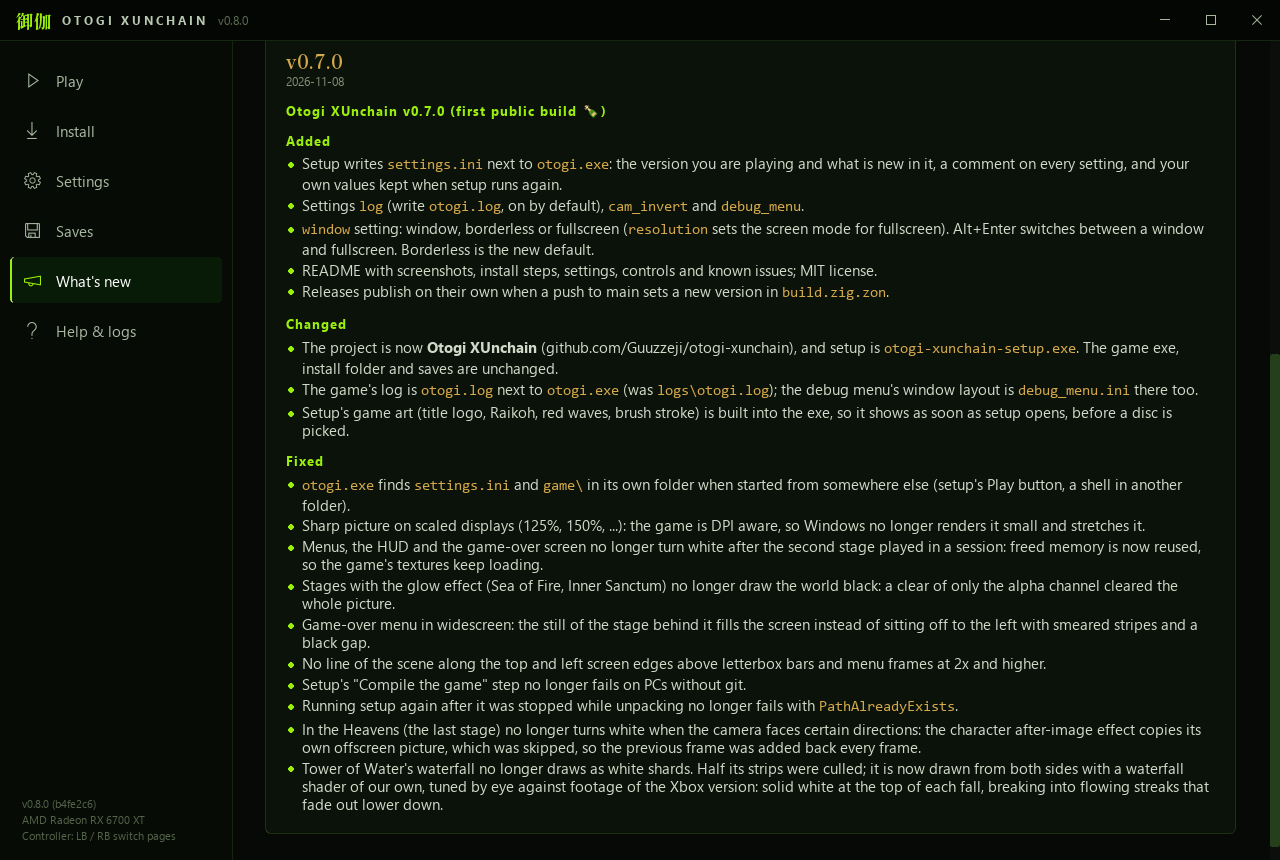
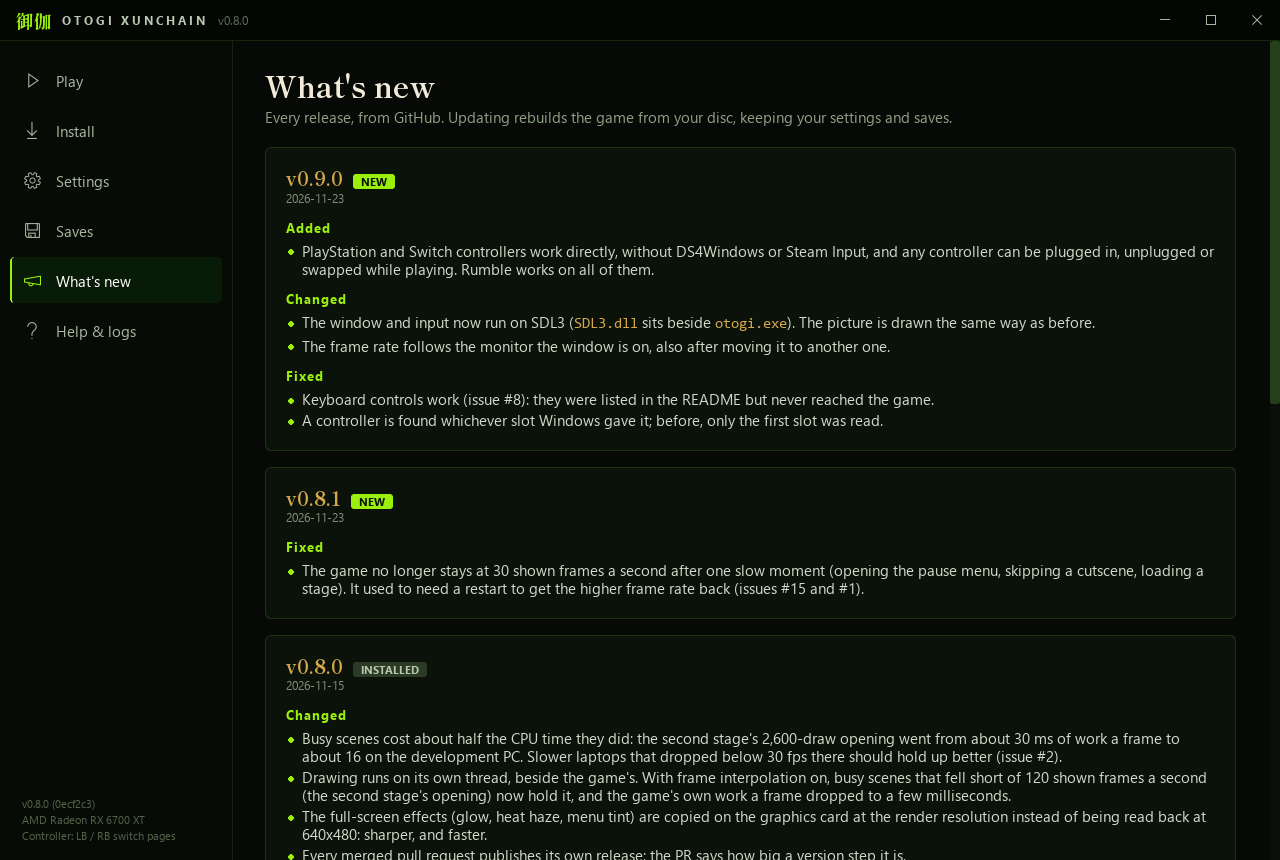
Update the README for the launcher: versions, settings, new screenshots

Changed region(s): [[0.1875, 0.0605, 0.9375, 1.0], [0.9688, 0.4535, 1.0, 0.9977], [0.9688, 0.0302, 1.0, 0.4233]]

diff --git a/README.md b/README.md
@@ -15,7 +15,7 @@
 - Window, borderless or fullscreen (Alt+Enter switches)
 - Modern controller handling: the right stick turns the view the usual way, with a smaller dead zone
 - In-game debug menu (F1): frame stats, stage warp, god mode, infinite magic, all weapons
-- A launcher that builds the game, edits its settings, shows your saves and updates it from here
+- A launcher that builds the game, edits its settings, shows your saves, and updates it (or goes back to an earlier version) from here
 
 <table>
 <tr>
@@ -53,25 +53,28 @@ Then:
 
 <p align="center"><img src="docs/img/launcher.png" alt="The launcher's Play page: the Otogi logo on red brocade, Raikoh, a green Play button, and tiles for what's new, saves and settings" width="49%"> <img src="docs/img/launcher-news.png" alt="The launcher's What's new page: every release's notes from GitHub" width="49%"></p>
 
-The launcher checks your disc and extracts the game files. It then downloads everything the build needs (Zig, Python and Capstone, plus the ANGLE and Dear ImGui libraries, each checked against a pinned hash), and only then translates the game to C and compiles it. Nothing is installed anywhere else on your PC. If a step fails or you stop it, build again and it carries on from where it stopped.
+The launcher checks your disc and extracts the game files. It then downloads everything the build needs (Zig, Python and Capstone, plus the ANGLE, SDL3 and Dear ImGui libraries, each checked against a pinned hash), and only then translates the game to C and compiles it. Nothing is installed anywhere else on your PC. If a step fails or you stop it, build again and it carries on from where it stopped.
 
 The launcher also:
 
-- **Settings:** every option in `settings.ini`, with its explanation, saved as you change it.
+- **Settings:** every option in `settings.ini`, with its explanation, saved as you change it. Switches and buttons instead of typing; the fullscreen resolution lists your monitor's own modes, plus Custom.
 - **Saves:** lists your saved games and where they are (`%LOCALAPPDATA%\Otogi`), and backs them up to a folder you pick.
 - **What's new:** the notes of every release. When a new one is out, **Update** downloads the new launcher and rebuilds the game from the files it already has (about 8 minutes; the disc is not needed again). Your settings and saves stay.
+- **Versions:** once more than one release has the launcher, a small version button beside **Play** lists them. Pick one and press **Switch to** to rebuild the game as that version, newer or older: handy if an update breaks something for you. When a newer release is out, an **Update to** button shows there too.
 - **Help & logs:** shows the game's and the build's logs as they are written, and has buttons to report a bug on GitHub (your version and PC filled in, the log copied to paste) or ask a question in Discussions.
 
-A controller works too: the d-pad moves, A selects, LB and RB switch pages.
+An Xbox controller works in the launcher too: the d-pad moves, A selects, B goes back, LB and RB switch pages. (In the game itself, PlayStation and Switch pads work as well.)
 
 ## Settings
+
+<p align="center"><img src="docs/img/launcher-settings.png" alt="The launcher's Settings page: window mode, a list of fullscreen resolutions, internal resolution, widescreen, frame rate and more, each with its explanation" width="70%"></p>
 
 The launcher's Settings page edits `settings.ini` beside `otogi.exe`, which has a comment on every line. The main ones:
 
 | Setting | Values |
 |---|---|
 | `window` | 0 window, 1 borderless (default), 2 fullscreen |
-| `resolution` | fullscreen only, such as `1920x1080`; empty keeps the desktop's |
+| `resolution` | fullscreen only, such as `1920x1080` (the launcher lists your monitor's); empty keeps the desktop's |
 | `scale` | internal resolution, 1 (640x480, original) to 4 |
 | `widescreen` | 1 = 16:9, 0 = original 4:3 |
 | `framerate` | 0 = monitor refresh, 30 = original |
